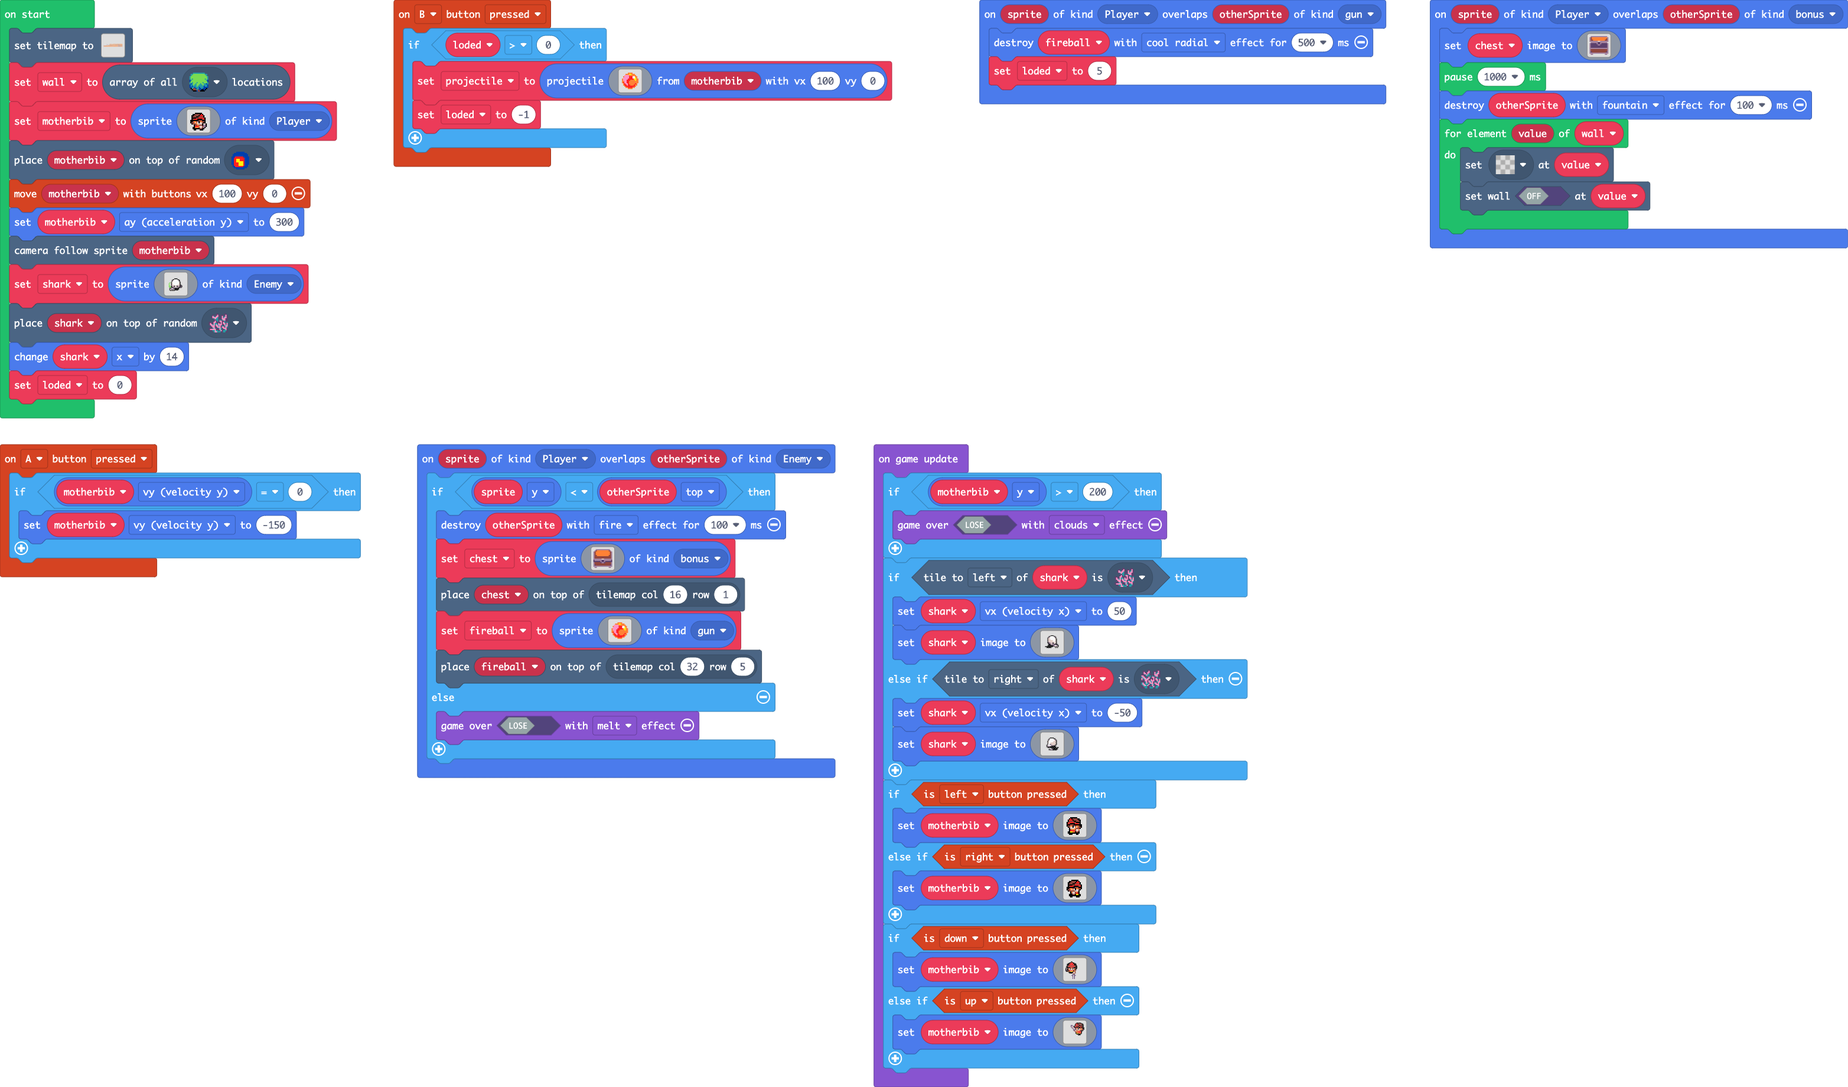
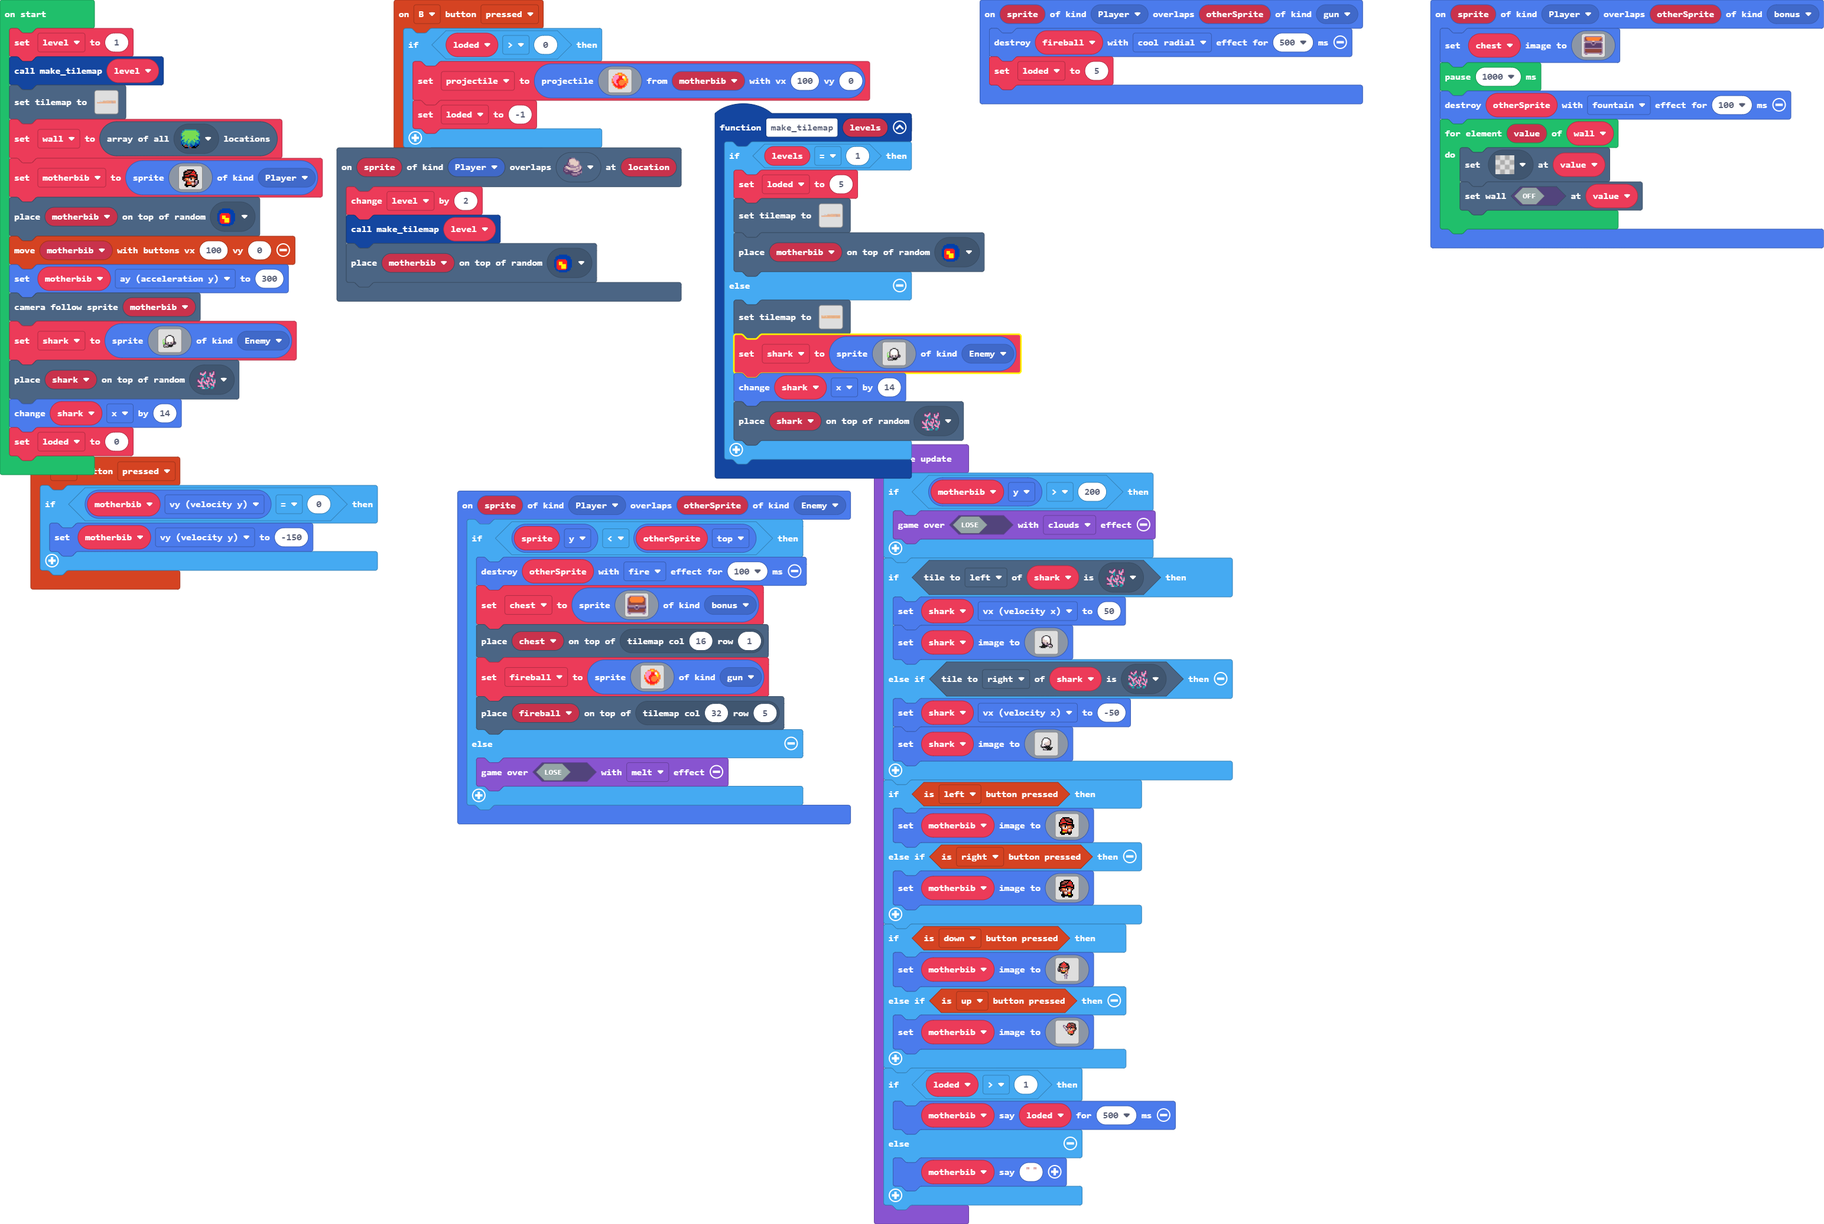
vi har lavet levels og john

diff --git a/main.ts b/main.ts
@@ -60,6 +60,82 @@ controller.A.onEvent(ControllerButtonEvent.Pressed, function () {
         motherbib.vy = -150
     }
 })
+scene.onOverlapTile(SpriteKind.Player, sprites.castle.rock0, function (sprite, location) {
+    level += 2
+    make_tilemap(level)
+    tiles.placeOnRandomTile(motherbib, myTiles.tile1)
+})
+function make_tilemap (levels: number) {
+    if (levels == 1) {
+        loded = 5
+        tiles.setTilemap(tiles.createTilemap(hex`6400100000000000000000000000000000000000000000000000000000000000000000050000000000000000000000000000000000000000000000000000000000000000000000000606000000000000000000000000000000000000000000000000000000000000000000000000000000000000000000000000000000000000000000000000000500000006060606060600000000000000060606060606060606060606060606060600000000000606060606060606060606060606060606060606060606060606060600000000000000000000000000000000000001010000000000000000000000000005000600000606060606060606060600000000000606060606040406040606060606060606060606060606060106060606060606060606060606060606060606060606060600000000000000000000000000000000000101000000000000000000000000050006060600000000000000000000060606060606060000060606060604060606060606060606060606060106010606010106060606060606060606060606060606060606000000000000000000000000000000000000010101000000000000000000000506060606060606060606060606060606060606060604040606060606060606060101010106060606060601060101010101060606060606060606060606060606060606060000000000000000000000000000000000000000010101000000000000000005060606060606060606060606060606060606060606060606060606000006010101010601010106060601060606010101010101010106060606060606060606060606060600000000000000000000000000000000000000000000010100010001000000040101010606060601010106060606010606010601010000000000000000000101060606060601010101010606060101060601010101060606060606060606060606060606000000000000000000000000000000000000000000000000000100010000000106060601010606010601060606060601010606060606060606060606060606060606060606060606060606060606060606010106010101060606060606060606060606060700000000000000000000000001010000010100000101000101060101010106060606060601010106010101010101000606060606060606060606060606060606060606060606060606060606060606010106060606060606060606060601010101060601010101010200000000000301010606060606060606060606060606060606060606060606060606060606060606060606060606060606060606060606060606060606060606060606060606060101010106060606060606060106060101010601010101060606060601010101010101060606060606060606060606060606060606060606060606060606060606060606060606060606060606060606060606060606060606060606060606060606060601010606060606060606060601010101060606060101060606060606060606060606060606060606060606060606060606060606060606060606060606060606060606060606060606060606060606060606060606060606060606060606060606060606010101010101010101060601010101060606060606060606060606060606060606060606060606060606060606060606060606060606060606060606060606060606060606060606060606060606060606060606060606060606060606060606060606060101010101010101010601010606060606060606060606060606060606060606060606060606060606060606060606060606060606060606060606060606060606060606060606060606060606060606060606060606060606060606060606060606060601010101010101010101010606060606060606060606060606060606060606060606060606060606060606060606060606060606060606060606060606060606060606060606060606060606060606060606060606060606060606060606060606060606060601010101010106060606060606060606060606060606060606060606060606060606060606060606060606060606060606060606060606060606060606060606060606060606060606060606060606060606060606060606060606060606060606060606060606060606060606060606060606060606060606`, img`
+            ...............................2....................................................................
+            ...............................2....................................................................
+            ................22.............2........................22.2...............2........................
+            .................22............2............................2.............2.2..22...................
+            ..................222..........2.....................222.........222......2.22.22...................
+            ....................222........2..............................2222.222...2...22222..................
+            ......................22.2.2...2222....222....2..2222.........2......22222...22..2.22...............
+            .........................2.2...2...22..2.2.....22................................2..222.............
+            .............22..22..22.22.2222......222.222222................................222...........2222...
+            22222.......22...............................................................22..........2.222..2222
+            .....2222222.................................................................22..........222........
+            .............................................................................222222222..222.........
+            .............................................................................222222222222...........
+            .............................................................................22.2222222.............
+            ..............................................................................2222222...............
+            ..................................................................................22................
+            `, [myTiles.transparency16,sprites.builtin.oceanDepths0,sprites.builtin.coral1,sprites.builtin.coral4,sprites.builtin.oceanDepths1,sprites.builtin.forestTiles0,sprites.dungeon.hazardLava1,myTiles.tile1], TileScale.Sixteen))
+        tiles.placeOnRandomTile(motherbib, myTiles.tile1)
+    } else {
+        tiles.setTilemap(tiles.createTilemap(hex`6400100001010101010101000000000101000001010100010100010101000101000101010101010101010101010101010101010101010101010101010101010101010101010101010101010101010101010101010101010101010101010101010101010101010101010101010101010000010001010000010101000100000101010001000001010101010101010101010101010101010101010101010101010101010101010101010101010101010101010101010101010101010101010101010101010101010101010101010101010101010100000100010100000101010000000101010100000001010101010101010101010101010101010101010101010101010101010101010101010101010101010101010101010101010101010101010101010101010101010101010101010101010101010101000000000101000001010100010101010101000001010101010101010101010101010101010101010101010101010101010101010101010101010101010101010101010101010101010101010101010101010101010101010101010101010101010101010000010001010000010101000101010101010000000101010101010101010101010101010101010101010101010101010101010101010101010101010101010101010101010101010101010101010101010101010101010101010101010101010101010100000100010100000101010001010101010100010000010101010101010101010101010202010101010101010101010101010101010101010101010101010101010101010101010101010101010101010101010101010101010101010101010101010101000000000101000001010100010101010101000101000101010101010101010102000002010202020101010102020201010101010101010101010101010301010101010101010101040101010101010101010101010101010101010101010101010101010101010101010101010101010101010101010101000000000101010101020202020101010101010202020202020102020202020101010202020202020102020202020202020202020201010101010202020202020202010101010101010202020202020101010101010101010101020202020202020200000000000000020202020201010101010101010101010101010101010101010202020202010101010202020101010101010101010102020200000002010101010101020202020202020101010101010202020202020202020202020201010101010101010101010101010101010101010101010101010101010101010101010101010101010101010101010101010101010101010101010101010101010101010101010101010101010101010101010101010101010101010101010101010101010101010101010101010101010101010101010101010101010101010101010101010101010101010101010101010101010101010101010101010101010101010101010101010101010101010101010101010101010101010101010101010101010101010101010101010101010101010101010101010101010101010101010101010101010101010101010101010101010101010101010101010101010101010101010101010101010101010101010101010101010101010101010101010101010101010101010101010101010101010101010101010101010101010101010101010101010101010101010101010101010101010101010101010101010101010101010101010101010101010101010101010101010101010101010101010101010101010101010101010101010101010101010101010101010101010101010101010101010101010101010101010101010101010101010101010101010101010101010101010101010101010101010101010101010101010101010101010101010101010101010101010101010101010101010101010101010101010101010101010101010101010101010101010101010101010101010101010101010101010101010101010101010101010101010101010101010101010101010101010101010101010101010101010101010101010101010101010101010101010101010101010101010101010101010101010101010101010101010101010101010101010101010101010101010101010101010101010101010101010101010101010101010101010101`, img`
+            ....................................................................................................
+            ....................................................................................................
+            ....................................................................................................
+            ....................................................................................................
+            ....................................................................................................
+            ..........................................22........................................................
+            .......................................2..2.222....222..............................................
+            ....................................2222......222222.22222...222222.222222222222.....22222222.......
+            222222...........22222222.......22222....................22222....222..........222...2......2222222.
+            .....2222222222222..................................................................................
+            ....................................................................................................
+            ....................................................................................................
+            ....................................................................................................
+            ....................................................................................................
+            ....................................................................................................
+            ....................................................................................................
+            `, [myTiles.transparency16,myTiles.tile3,sprites.builtin.oceanDepths0,sprites.builtin.coral0,sprites.builtin.coral1], TileScale.Sixteen))
+        shark = sprites.create(img`
+            ........................
+            ........................
+            ........................
+            ........................
+            ........................
+            ..........ffff..........
+            ........ff1111ff........
+            .......fb111111bf.......
+            .......f11111111f.......
+            ......fd11111111df......
+            ....7.fd11111111df......
+            ...7..fd11111111df......
+            ...7..fd11111111df......
+            ...7..fddd1111dddff.....
+            ...77.fbdbfddfbdbfcf....
+            ...777fcdcf11fcdcfbf....
+            ....77fffbdb1bdffcf.....
+            ....fcb1bcffffff........
+            ....f1c1c1ffffff........
+            ....fdfdfdfffff.........
+            .....f.f.f..............
+            ........................
+            ........................
+            ........................
+            `, SpriteKind.Enemy)
+        shark.x += 14
+        tiles.placeOnRandomTile(shark, sprites.builtin.coral1)
+    }
+}
 sprites.onOverlap(SpriteKind.Player, SpriteKind.Enemy, function (sprite, otherSprite) {
     if (sprite.y < otherSprite.top) {
         otherSprite.destroy(effects.fire, 100)
@@ -109,9 +185,13 @@ let chest: Sprite = null
 let fireball: Sprite = null
 let projectile: Sprite = null
 let loded = 0
+let shark: Sprite = null
 let motherbib: Sprite = null
 let wall: tiles.Location[] = []
-tiles.setTilemap(tiles.createTilemap(hex`6400100000000000000000000000000000000000000000000000000000000000000000050000000000000000000000000000000000000000000000000000000000000000000000000606000000000000000000000000000000000000000000000000000000000000000000000000000000000000000000000000000000000000000000000000000500000006060606060600000000000000060606060606060606060606060606060600000000000606060606060606060606060606060606060606060606060606060600000000000000000000000000000000000001010000000000000000000000000005000600000606060606060606060600000000000606060606040406040606060606060606060606060606060106060606060606060606060606060606060606060606060600000000000000000000000000000000000101000000000000000000000000050006060600000000000000000000060606060606060000060606060604060606060606060606060606060106010606010106060606060606060606060606060606060606000000000000000000000000000000000000010101000000000000000000000506060606060606060606060606060606060606060604040606060606060606060101010106060606060601060101010101060606060606060606060606060606060606060000000000000000000000000000000000000000010101000000000000000005060606060606060606060606060606060606060606060606060606000006010101010601010106060601060606010101010101010106060606060606060606060606060600000000000000000000000000000000000000000000010100010001000000040101010606060601010106060606010606010601010000000000000000000101060606060601010101010606060101060601010101060606060606060606060606060606000000000000000000000000000000000000000000000000000100010000000106060601010606010601060606060601010606060606060606060606060606060606060606060606060606060606060606010106010101060606060606060606060606060700000000000000000000000001010000010100000101000101060101010106060606060601010106010101010101000606060606060606060606060606060606060606060606060606060606060606010106060606060606060606060601010101060601010101010200000000000301010606060606060606060606060606060606060606060606060606060606060606060606060606060606060606060606060606060606060606060606060606060101010106060606060606060106060101010601010101060606060601010101010101060606060606060606060606060606060606060606060606060606060606060606060606060606060606060606060606060606060606060606060606060606060601010606060606060606060601010101060606060101060606060606060606060606060606060606060606060606060606060606060606060606060606060606060606060606060606060606060606060606060606060606060606060606060606060606010101010101010101060601010101060606060606060606060606060606060606060606060606060606060606060606060606060606060606060606060606060606060606060606060606060606060606060606060606060606060606060606060606060101010101010101010601010606060606060606060606060606060606060606060606060606060606060606060606060606060606060606060606060606060606060606060606060606060606060606060606060606060606060606060606060606060601010101010101010101010606060606060606060606060606060606060606060606060606060606060606060606060606060606060606060606060606060606060606060606060606060606060606060606060606060606060606060606060606060606060601010101010106060606060606060606060606060606060606060606060606060606060606060606060606060606060606060606060606060606060606060606060606060606060606060606060606060606060606060606060606060606060606060606060606060606060606060606060606060606060606`, img`
+let level = 0
+level = 1
+make_tilemap(level)
+tiles.setTilemap(tiles.createTilemap(hex`6400100000000000000000000000000000000000000000000000000000000000000000050000000000000000000000000000000000000000000000000000000000000000000000000606000000000000000000000000000000000000000000000000000000000000000000000000000000000000000000000000000000000000000000000000000500000006060606060600000000000000060606060606060606060606060606060600000000000606060606060606060606060606060606060606060606060606060600000000000000000000000000000000000001010000000000000000000000000005000600000606060606060606060600000000000606060606040406040606060606060606060606060606060106060606060606060606060606060606060606060606060600000000000000000000000000000000000101000000000000000000000000050006060600000000000000000000060606060606060000060606060604060606060606060606060606060106010606010106060606060606060606060606060606060606000000000000000000000000000000000000010101000000000000000000000506060606060606060606060606060606060606060604040606060606060606060101010106060606060601060101010101060606060606060606060606060606060606060000000000000000000000000000000000000000010101000000000000000005060606060606060606060606060606060606060606060606060606000006010101010601010106060601060606010101010101010106060606060606060606060606060600000000000000000000000000000000000000000000010100010001000000040101010606060601010106060606010606010601010000000000000000000101060606060601010101010606060101060601010101060606060606060606060606060606000000000000000000000000000000000000000000000000000100010000000106060601010606010601060606060601010606060606060606060606060606060606060606060606060606060606060606010106010101060606060606060606060606060700000000000000000000000001010000010100000101000101060101010106060606060601010106010101010101000606060606060606060606060606060606060606060606060606060606060606010106060606060606060606060601010108060601010101010200000000000301010606060606060606060606060606060606060606060606060606060606060606060606060606060606060606060606060606060606060606060606060606060101010106060606060606060106060101010601010101060606060601010101010101060606060606060606060606060606060606060606060606060606060606060606060606060606060606060606060606060606060606060606060606060606060601010606060606060606060601010101060606060101060606060606060606060606060606060606060606060606060606060606060606060606060606060606060606060606060606060606060606060606060606060606060606060606060606060606010101010101010101060601010101060606060606060606060606060606060606060606060606060606060606060606060606060606060606060606060606060606060606060606060606060606060606060606060606060606060606060606060606060101010101010101010601010606060606060606060606060606060606060606060606060606060606060606060606060606060606060606060606060606060606060606060606060606060606060606060606060606060606060606060606060606060601010101010101010101010606060606060606060606060606060606060606060606060606060606060606060606060606060606060606060606060606060606060606060606060606060606060606060606060606060606060606060606060606060606060601010101010106060606060606060606060606060606060606060606060606060606060606060606060606060606060606060606060606060606060606060606060606060606060606060606060606060606060606060606060606060606060606060606060606060606060606060606060606060606060606`, img`
     ...............................2....................................................................
     ...............................2....................................................................
     ................22.............2........................22.2...............2........................
@@ -128,7 +208,7 @@ tiles.setTilemap(tiles.createTilemap(hex`640010000000000000000000000000000000000
     .............................................................................22.2222222.............
     ..............................................................................2222222...............
     ..................................................................................22................
-    `, [myTiles.transparency16,sprites.builtin.oceanDepths0,sprites.builtin.coral1,sprites.builtin.coral4,sprites.builtin.oceanDepths1,sprites.builtin.forestTiles0,sprites.dungeon.hazardLava1,myTiles.tile1], TileScale.Sixteen))
+    `, [myTiles.transparency16,sprites.builtin.oceanDepths0,sprites.builtin.coral1,sprites.builtin.coral4,sprites.builtin.oceanDepths1,sprites.builtin.forestTiles0,sprites.dungeon.hazardLava1,myTiles.tile1,sprites.castle.rock0], TileScale.Sixteen))
 wall = tiles.getTilesByType(sprites.builtin.forestTiles0)
 motherbib = sprites.create(img`
     . . . . . . . . . . . . . . . . 
@@ -152,7 +232,7 @@ tiles.placeOnRandomTile(motherbib, myTiles.tile1)
 controller.moveSprite(motherbib, 100, 0)
 motherbib.ay = 300
 scene.cameraFollowSprite(motherbib)
-let shark = sprites.create(img`
+shark = sprites.create(img`
     ........................
     ........................
     ........................
@@ -335,5 +415,10 @@ game.onUpdate(function () {
             ........................
             ........................
             `)
+    }
+    if (loded > 1) {
+        motherbib.say(loded, 500)
+    } else {
+        motherbib.say("")
     }
 })

diff --git a/tilemap.g.ts b/tilemap.g.ts
@@ -6,6 +6,8 @@ namespace myTiles {
     export const tile1 = image.ofBuffer(hex``);
     //% fixedInstance jres blockIdentity=images._tile
     export const tile2 = image.ofBuffer(hex``);
+    //% fixedInstance jres blockIdentity=images._tile
+    export const tile3 = image.ofBuffer(hex``);
 
     helpers.registerTilemapFactory(function(name: string) {
         switch(helpers.stringTrim(name)) {
